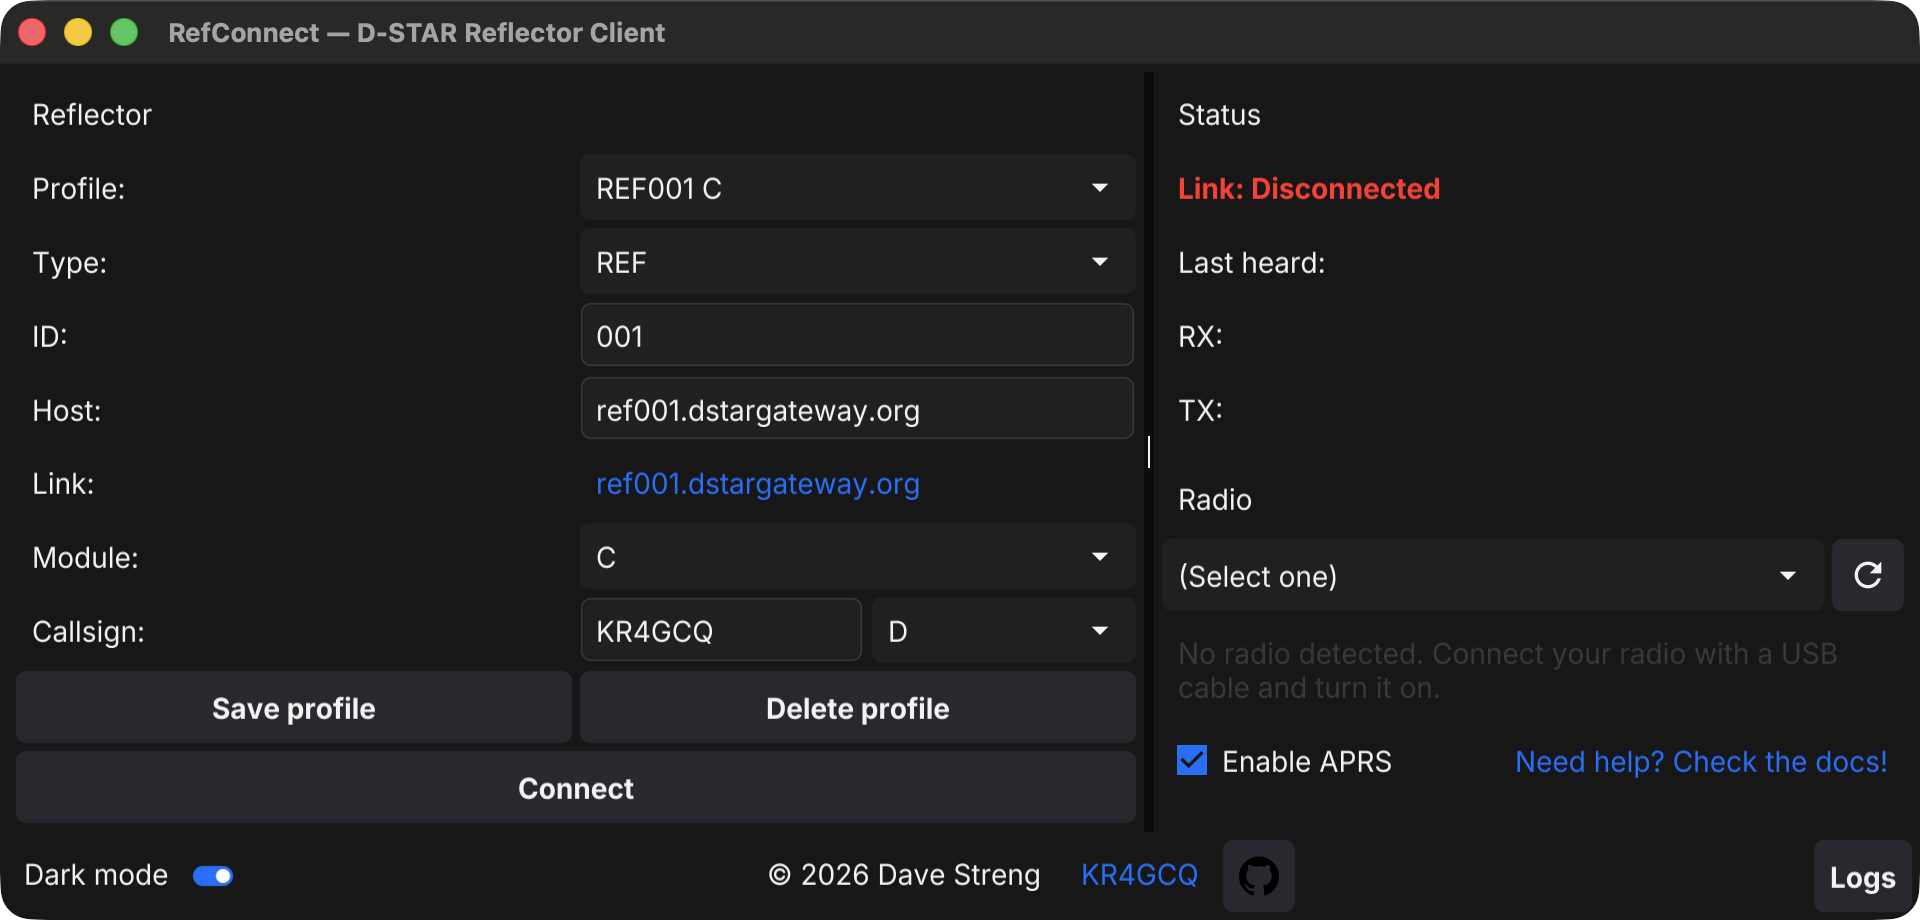
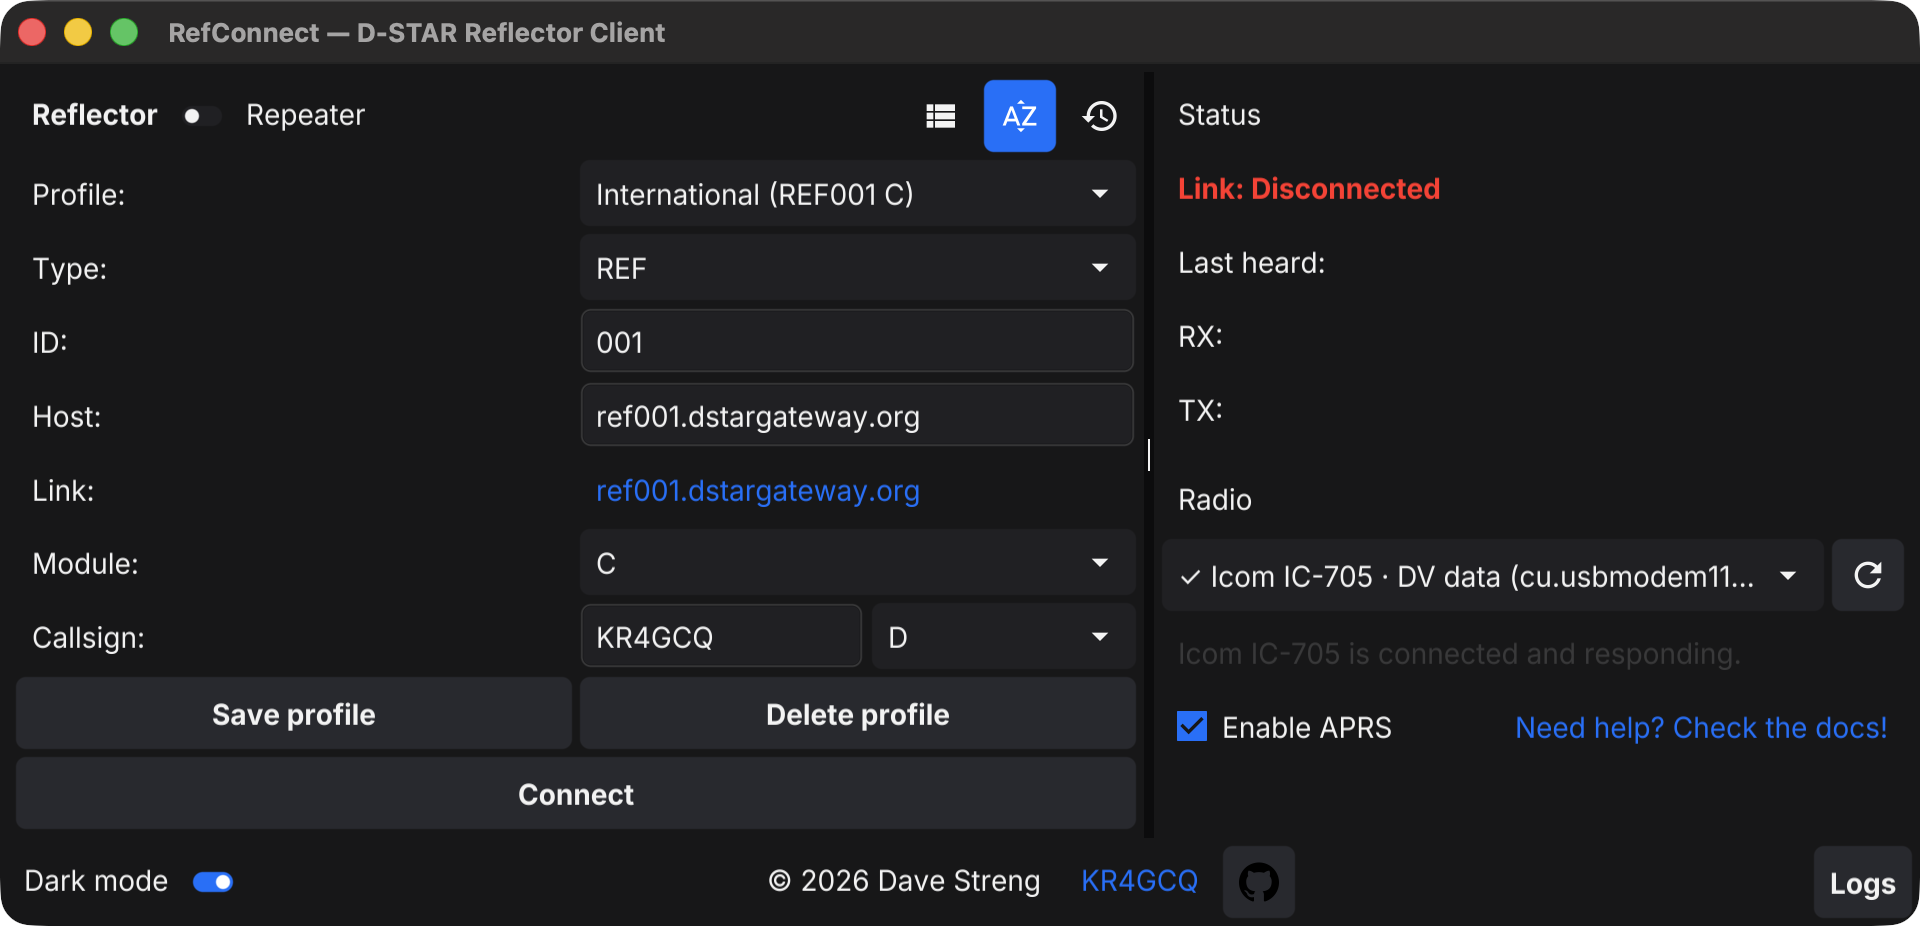
docs(readme): refresh screenshot and document repeater links and profile names
Update the screenshot to show the Reflector/Repeater switch, profile sort
buttons, a friendly profile name and a detected IC-705. Document repeater
linking, friendly profile names, per-mode profile lists, sorting, radio
auto-detection, APRS and the new config fields.

diff --git a/README.md b/README.md
@@ -2,7 +2,7 @@
 
 # RefConnect
 
-A D-STAR reflector client for macOS, Windows, and Linux that connects your D-STAR radio to internet-based reflectors via serial port. Supports DExtra (XRF), DPlus (REF), XLX, and DCS reflector protocols.
+A D-STAR reflector client for macOS, Windows, and Linux that connects your D-STAR radio to internet-based reflectors via serial port. Supports DExtra (XRF), DPlus (REF), XLX, and DCS reflectors, and can link directly to a repeater's gateway.
 
 ![RefConnect Screenshot](docs/screenshot.png)
 
@@ -11,10 +11,13 @@ A D-STAR reflector client for macOS, Windows, and Linux that connects your D-STA
 ## Features
 
 - Multi-OS Support! (Linux/MacOS/Windows)
-- Connect to REF/XRF/XLX/DCS reflectors via DPlus/DExtra/XLX protocols
+- Connect to REF/XRF/XLX/DCS reflectors via the DPlus, DExtra and DCS protocols
+- Link straight to a repeater's gateway (DPlus, DExtra or DCS) with the Reflector ⟷ Repeater switch
 - Supports ICOM (DV Gateway Terminal) and Kenwood (MMDVM) radio protocols
-- Serial port integration with D-STAR radios via USB
-- Saved reflector profiles with last-used memory
+- Automatic radio detection — recognises the Icom IC-705, ID-52 and ID-52 PLUS and the Kenwood TH-D75, picks the right port and protocol
+- Optional APRS — forwards the GPS position from your radio's transmissions to APRS-IS and the reflector (D-PRS)
+- Saved profiles with friendly names, sorting (saved order, A–Z, most recent) and last-used memory
+- Checks for new releases on launch
 - Dark, light, or system theme support
 - Timestamped activity log
 
@@ -76,12 +79,20 @@ reflectors:
       port: 20001
       module: C
       protocol: DPlus
+      label: International      # optional friendly name
+    - name: W4ABC B             # a repeater profile
+      host: w4abc.example.org
+      port: 20001
+      module: B
+      protocol: DPlus
+      repeater_call: W4ABC
 last_used_reflector: "REF001 C"
 ui:
     theme: system                # "dark", "light", or "system"
     log_max_lines: 500
     window_width: 960
     window_height: 720
+    profile_sort: name           # "" (saved order), "name" or "recent"
 ```
 
 | Field | Description |
@@ -90,25 +101,35 @@ ui:
 | `callsign_suffix` | Gateway module suffix (e.g. `G` for gateway). This is the 8th character of your callsign as shown in Via/Peer on reflector dashboards |
 | `radio.port` | Serial port path for your radio |
 | `radio.protocol` | `DV-GW` for ICOM radios, `MMDVM` for Kenwood radios. Baud rate is set automatically (38400 / 115200) |
-| `reflectors` | Saved reflector profiles, selectable from the Connect panel |
+| `reflectors` | Saved reflector and repeater profiles, selectable from the Connect panel |
+| `reflectors[].label` | Optional friendly name shown in the Profile dropdown |
+| `reflectors[].repeater_call` | Set on repeater profiles — the repeater's callsign (no module) |
+| `last_used_reflector` | Profile reselected on the next launch |
+| `aprs.enabled` | Turn APRS position reporting on or off (also the **Enable APRS** checkbox) |
 | `ui.theme` | `dark`, `light`, or `system` |
+| `ui.profile_sort` | Profile dropdown order: saved order (empty), `name` (A–Z) or `recent` |
 
 ## Usage
 
 1. **Connect your radio** — Plug in your radio and turn it on. RefConnect detects supported radios, selects the right serial port and sets the protocol (ICOM or Kenwood) automatically; the hint under the port selector shows the radio's status. For a radio it doesn't recognise, select its port and choose the protocol yourself.
-2. **Select a reflector** — Choose a saved reflector profile from the Profile dropdown, or fill in Type/ID/Domain/Module to create a new one.
+2. **Select a reflector or repeater** — Use the **Reflector ⟷ Repeater** switch at the top of the Connect panel, then choose a saved profile from the Profile dropdown, or fill in the fields to create a new one.
 3. **Enter your callsign** — Set your callsign and gateway module suffix.
 4. **Click Connect** — The status panel will update once the link is established. The connected profile is remembered and reselected automatically on the next launch.
 5. **Transmit** — Key up on your radio! Welcome to D-STAR!
 
 The log panel shows timestamped activity including connections, heard callsigns, and errors.
 
-### Saving reflector profiles
+### Linking to a repeater
 
-The Connect panel keeps a list of saved profiles you can switch between via the **Profile** dropdown:
+Flip the switch at the top of the Connect panel to **Repeater** to link to a repeater's gateway instead of a reflector. Enter the repeater's callsign in the **Repeater** field, its gateway address in **Host**, pick the **Module**, and choose the **Protocol** (DPlus by default, or DExtra / DCS). The switch is locked while you're connected — disconnect first to change modes.
 
-- **Save profile** — captures the current Type, ID, Domain, and Module fields and writes the entry into `config.yaml` under `reflectors`. The profile name is derived from the form (e.g. `REF001 C`); saving with the same name overwrites the existing entry, otherwise a new one is appended.
+### Saving profiles
+
+The Connect panel keeps a list of saved profiles you can switch between via the **Profile** dropdown. Reflector and repeater profiles are listed separately — the dropdown shows the ones for the current mode, and each mode remembers its own selection.
+
+- **Save profile** — captures the current fields and writes the entry into `config.yaml` under `reflectors`. The profile is keyed by a name derived from the form (e.g. `REF001 C` or `W4ABC B`); saving with the same name overwrites the existing entry, otherwise a new one is appended. You'll be asked for an optional friendly name, shown in the dropdown as e.g. `International (REF001 C)`.
 - **Delete profile** — removes the currently selected entry from the dropdown and from `config.yaml`.
+- **Sort** — the buttons at the top right of the panel order the dropdown by saved order, A–Z, or most recently connected.
 - **Last used** — the most recent profile you connected to is stored in `last_used_reflector` and pre-selected on next launch.
 
 Because profiles live in `config.yaml`, you can migrate them between devices by copying that file. Callsign and gateway suffix are global and apply to every profile.
